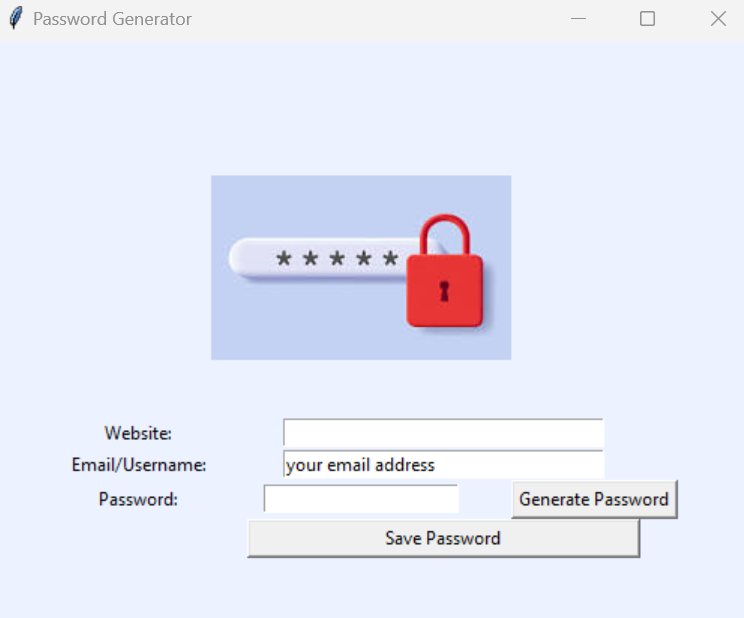
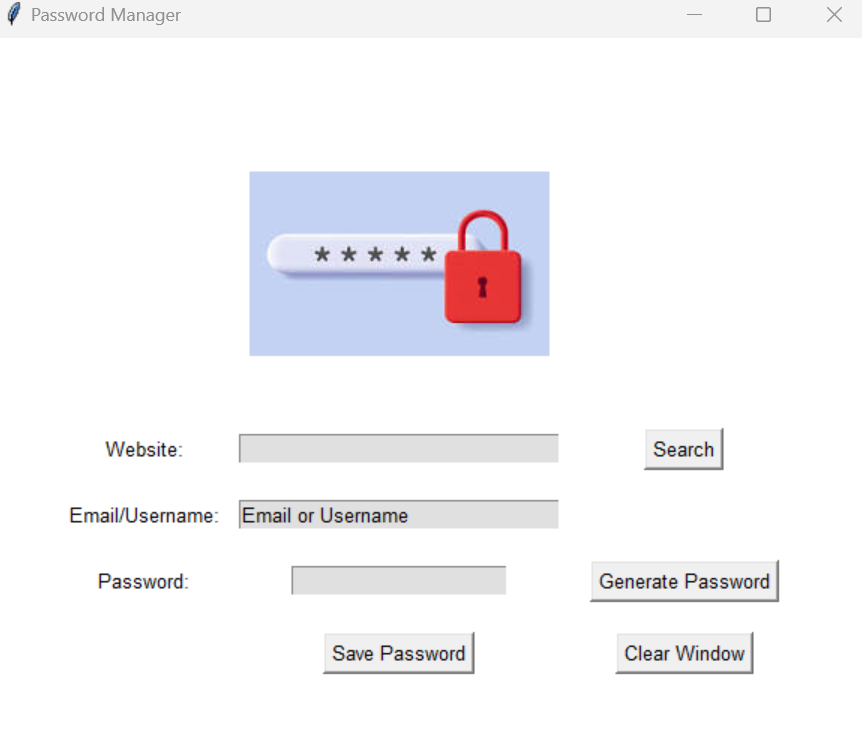
modified file

diff --git a/password_generator.py b/password_generator.py
@@ -2,7 +2,32 @@ from tkinter import *
 from tkinter import messagebox
 import random
 import pyperclip
+import json
+
+# Constants
 BLUE = "#ECF2FF"
+WHITE = "#FFFFFF"
+BLACK = "#000000"
+GRAY = "#E0E0E0"
+HEIGHT = 5
+FONT = ("Arial", 10,)
+
+
+# ---------------------------- SEARCH WEBSITE ------------------------------- #
+def search_website():
+    website = website_entry.get().lower()
+    try:
+        with open("password.json", "r") as data_file:
+            data = json.load(data_file)
+    except FileNotFoundError:
+        messagebox.showinfo(title="Oops", message="No data found.")
+    else:
+        if website in data:
+            email = data[website]["email"]
+            password = data[website]["password"]
+            messagebox.showinfo(title=website, message=f"Email: {email} \nPassword: {password}")
+        else:
+            messagebox.showinfo(title="Oops", message="Website not found.")
 
 
 # ---------------------------- CLEAR WINDOW ------------------------------- #
@@ -32,65 +57,103 @@ def generate_password():
 
 # ---------------------------- SAVE PASSWORD ------------------------------- #
 def save_password():
+    website = website_entry.get().lower()
+    email = email_entry.get().lower()
+    password = password_entry.get()
+    new_data = {
+        website: {
+            "email": email,
+            "password": password
+        }
+    }
+
     # check if all the fields are filled
-    if len(website_entry.get()) == 0 or len(email_entry.get()) == 0 or len(password_entry.get()) == 0:
+    if len(website) == 0 or len(email) == 0 or len(password) == 0:
         messagebox.showerror("Error", "Please fill all the fields")
     else:
-        is_ok = messagebox.askokcancel(title=f"{website_entry.get()}", message=f"These are the details you "
-                                                                               f"entered:\nEmail: {email_entry.get()} "
-                                                                               f"\nPassword: {password_entry.get()} "
-                                                                               f"\nDo you want to save?")
+        is_ok = messagebox.askokcancel(title=f"{website}", message=f"These are the details you "
+                                                                   f"entered:\nEmail: {email} "
+                                                                   f"\nPassword: {password} "
+                                                                   f"\nDo you want to save?")
         if is_ok:
-            with open("password.txt", "a") as file:
-                file.write(f"{website_entry.get()} | {email_entry.get()} | {password_entry.get()}\n")
-            # clear the fields
-            clear_window()
-            # create a window popup if successfully write to the file
-            messagebox.showinfo("Password Saved", "Password Saved Successfully")
+            try:
+                with open("./data/password.json", "r") as file:
+                    data = json.load(file)
+            except FileNotFoundError:
+                with open("./data/password.json", "w") as file:
+                    json.dump(new_data, file, indent=4)
+            else:
+                if website in data:
+                    current_email = data[website]["email"]
+                    current_password = data[website]["password"]
+                    update_data = messagebox.showwarning(title=f"{website}", message=f"Website already exists. Do you "
+                                                                                     f"want "f"to update the "
+                                                                                     f"credentials?\nCurrent "
+                                                                                     f""f"credentials are: "
+                                                                                     f"\nEmail: {current_email} "
+                                                                                     f""f"\nPassword: "
+                                                                                     f"{current_password}")
+                    if update_data:
+                        data[website]["email"] = email
+                        data[website]["password"] = password
+                        with open("./data/password.json", "w") as file:
+                            json.dump(data, file, indent=4)
+                        messagebox.showinfo(title=f"{website}", message="Password Updated Successfully")
+                    else:
+                        messagebox.showinfo(title=f"{website}", message="Not Saved")
+                else:
+                    data.update(new_data)
+                    with open("./data/password.json", "w") as file:
+                        json.dump(data, file, indent=4)
+                        messagebox.showinfo(title=f"'{website}", message="Password Saved Successfully")
+            finally:
+                # clear the fields
+                clear_window()
+        else:
+            messagebox.showinfo(title=f"{website}", message="Not Saved")
 
 
 # ---------------------------- UI SETUP ------------------------------- #
 window = Tk()
-window.title("Password Generator")
-window.config(padx=50, pady=50, bg=BLUE)
+window.title("Password Manager")
+window.config(padx=50, pady=50, bg=WHITE)
 
-# create a canvas
-canvas = Canvas(width=200, height=200, bg=BLUE, highlightthickness=0)
+# Logo
+canvas = Canvas(width=200, height=200, bg=WHITE, highlightthickness=0)
 logo_image = PhotoImage(file="./images/logo.png")
 canvas.create_image(100, 100, image=logo_image)
 canvas.grid(row=0, column=1)
 
-# create website label
-website_label = Label(text="Website:", bg=BLUE)
+# Labels and Entry Fields
+website_label = Label(text="Website:", bg=WHITE, font=FONT)
 website_label.grid(row=1, column=0)
 
-# create website entry
-website_entry = Entry(width=35)
-website_entry.grid(row=1, column=1, columnspan=2)
+website_entry = Entry(width=30, bg=GRAY, font=FONT)
+website_entry.grid(row=1, column=1, padx=10, pady=10)
 website_entry.focus()
 
-# create email label
-email_label = Label(text="Email/Username:", bg=BLUE)
+email_label = Label(text="Email/Username:", bg=WHITE, font=FONT)
 email_label.grid(row=2, column=0)
 
-# create email entry
-email_entry = Entry(width=35)
-email_entry.grid(row=2, column=1, columnspan=2)
-email_entry.insert(0, "your email address")
+email_entry = Entry(width=30, bg=GRAY, font=FONT, )
+email_entry.grid(row=2, column=1, padx=10, pady=10)
+email_entry.insert(0, "Email or Username")
 
-# create password label
-password_label = Label(text="Password:", bg=BLUE)
+password_label = Label(text="Password:", bg=WHITE, font=FONT)
 password_label.grid(row=3, column=0)
 
-# create password entry
-password_entry = Entry(width=21)
-password_entry.grid(row=3, column=1)
+password_entry = Entry(width=20, bg=GRAY, font=FONT)
+password_entry.grid(row=3, column=1, padx=10, pady=10)
 
-# create generate button
-generate_button = Button(text="Generate Password", command=generate_password)
-generate_button.grid(row=3, column=2)
+# Buttons
+generate_button = Button(text="Generate Password", command=generate_password, font=FONT)
+generate_button.grid(row=3, column=2, padx=10, pady=10)
 
-# create save button
-save_button = Button(text="Save Password", width=36, command=save_password)
-save_button.grid(row=4, column=1, columnspan=2)
+save_button = Button(text="Save Password", command=save_password, font=FONT)
+save_button.grid(row=4, column=1, padx=10, pady=10)
+
+search_button = Button(text="Search", command=search_website, font=FONT)
+search_button.grid(row=1, column=2, padx=10, pady=10)
+clear_button = Button(text="Clear Window", command=clear_window, font=FONT)
+clear_button.grid(row=4, column=2, padx=10, pady=10)
 window.mainloop()

diff --git a/README.md b/README.md
@@ -18,9 +18,10 @@ generate and save passwords for various websites along with your email or userna
 - Password Generation: The application includes a password generator feature that can create strong, random passwords 
 for you. The generated passwords include a combination of uppercase and lowercase letters, numbers, and symbols.
 - Password Storage: You can save the details of websites, email addresses, and passwords. The saved data is 
-- stored in a text file named `password.txt`.
+- stored in a json file named `password.json`.
 - User Interface : The application provides an intuitive user interface where you can input website names, 
-email addresses, and view or generate passwords.
+email addresses, clear, and view or generate passwords.
+- Credentials recovery: The application provides a search button for any website credentials previously saved.
 
 ## Installation
 1. Clone the repository:
@@ -37,9 +38,8 @@ email addresses, and view or generate passwords.
 2. You can use the "Generate Password" button to create a strong password.
 3. Click the "Save Password" button to save the entered information. A popup will confirm 
 the saving of the password.
-4. The saved data will be stored in the password.txt file in the format:
-   ```bash 
-   Website | Email/Username | Password
+4. The saved data will be stored in the password.json file ,and they can be retrieved using the search button
+5. 
 
 ## Author
 - [laurianerzb](https://github.com/laurianerzb)
